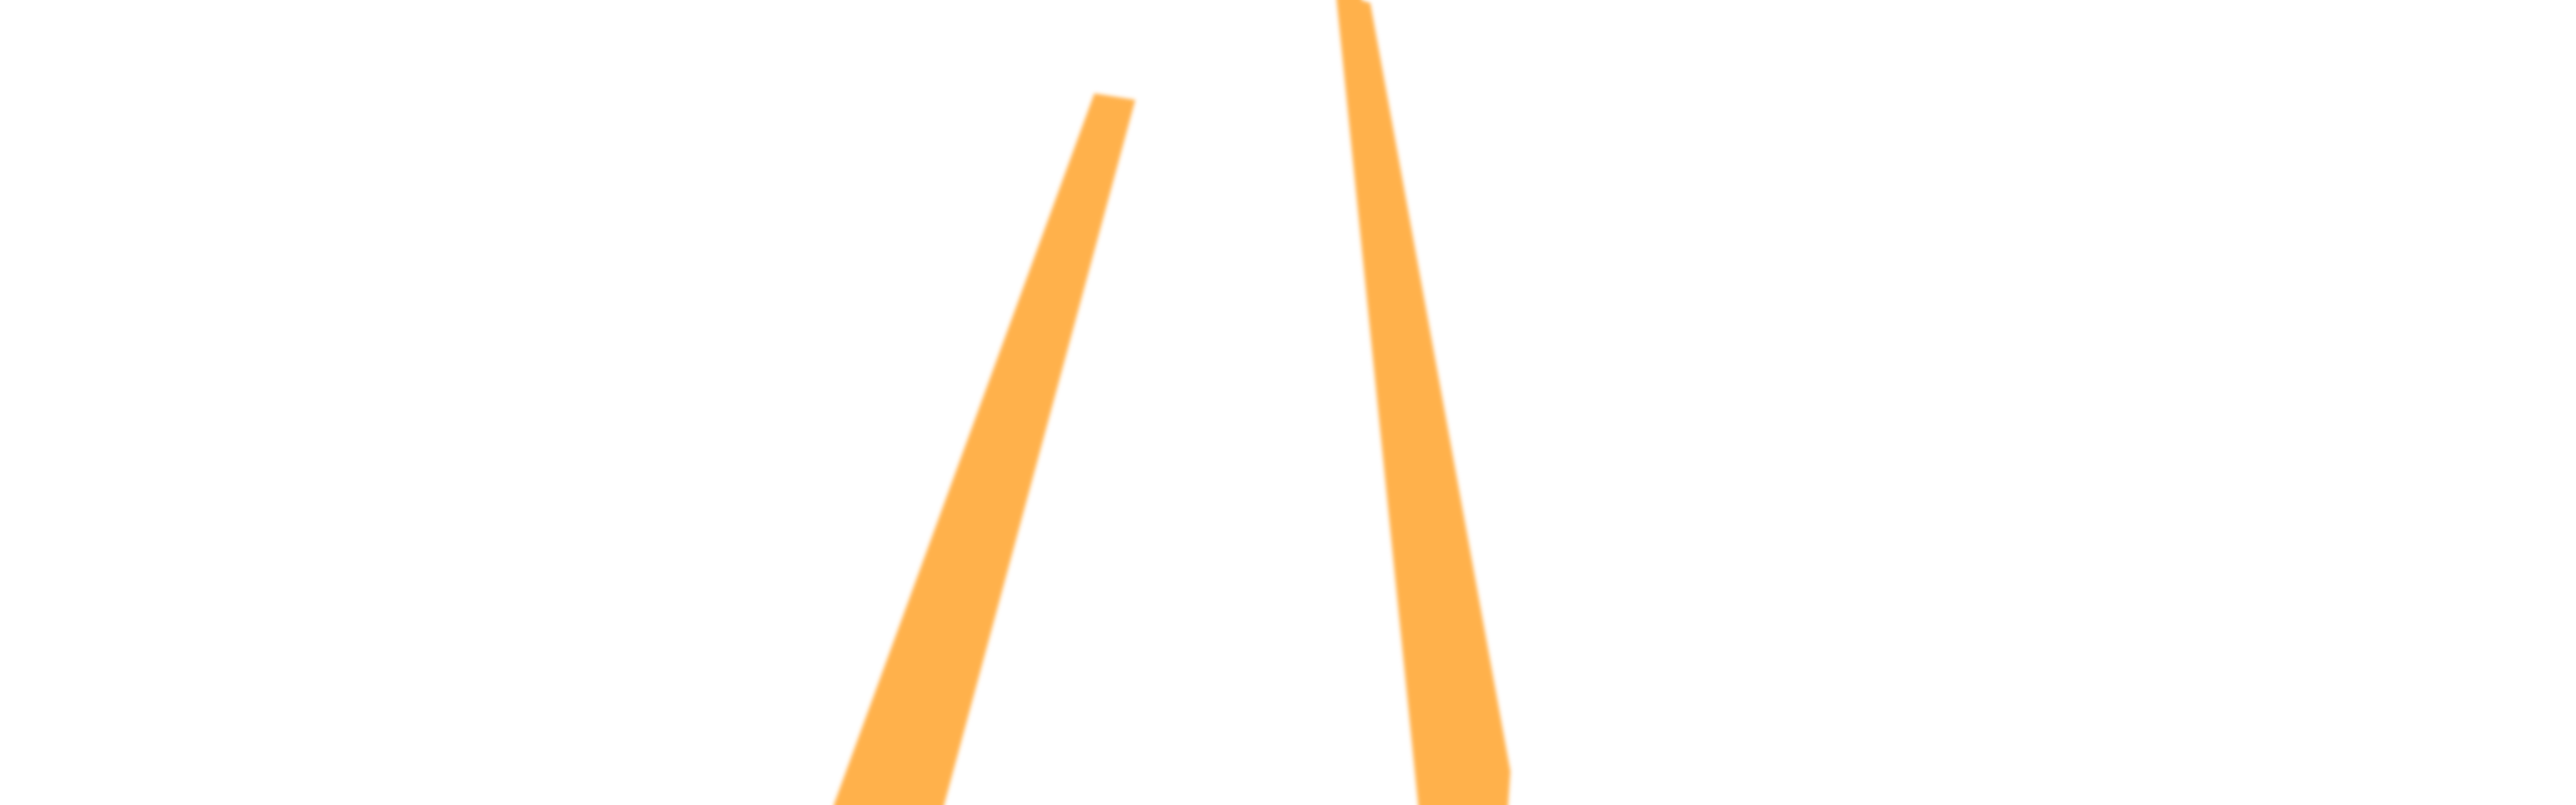
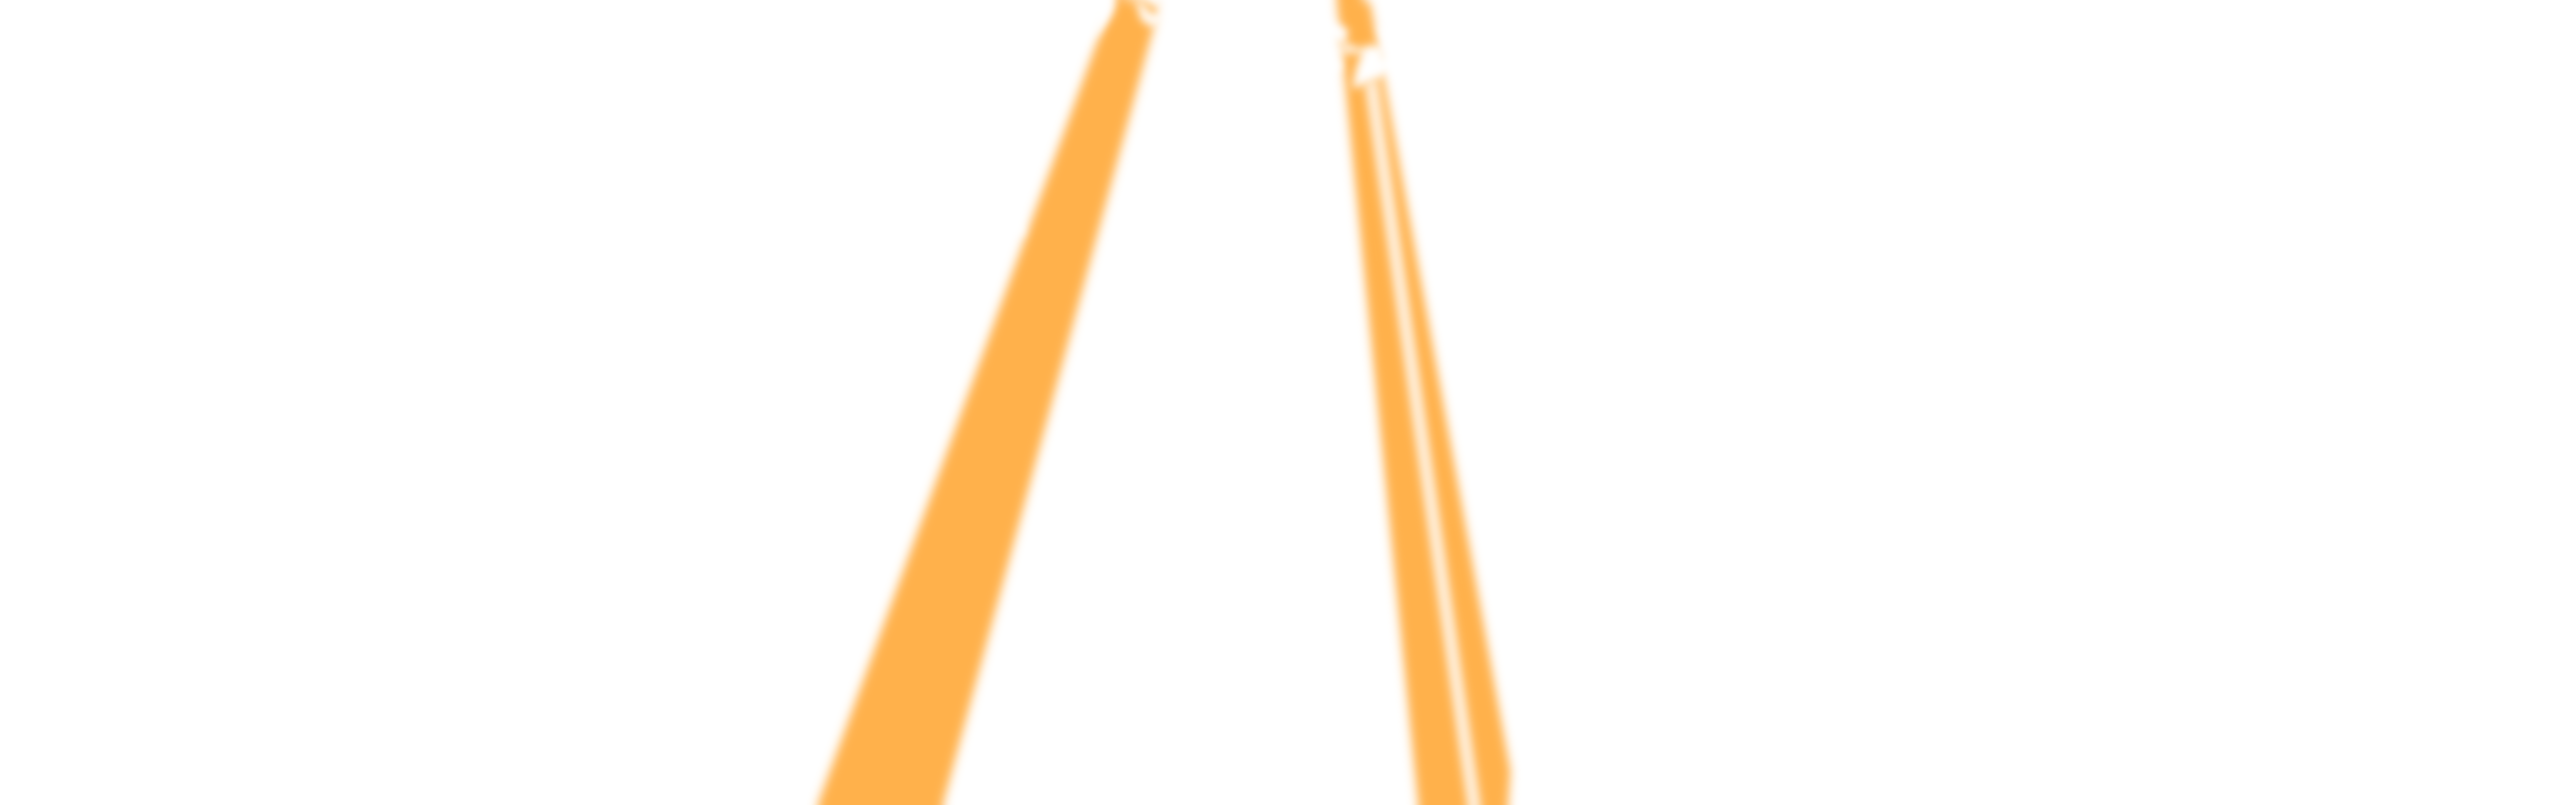
Sunbeam styling and sticky fix 2
Html Overflow:hidden breaks all sticky, including navbar. Removed overflow in preparation for testing which element is too big

Changed region(s): [[0.5, 0.0, 0.5938, 1.0], [0.3125, 0.0, 0.4688, 1.0]]

diff --git a/index.html b/index.html
@@ -411,7 +411,11 @@
                 </div>
                 <div class="col-sm-7 al-column px-4 animateIn fadeInRight">
                     <h1>Let's Keep in <span>Contact</span></h1>
-                    <iframe src="https://docs.google.com/forms/d/e/1FAIpQLSfEFGSn1mLxu_41qyNucgQhS8rhJ_FvybtoQCOtnai48Rr-zA/viewform?embedded=true" frameborder="0" marginheight="0" marginwidth="0">Loading…</iframe>
+                    <iframe
+                        src="https://docs.google.com/forms/d/e/1FAIpQLSfEFGSn1mLxu_41qyNucgQhS8rhJ_FvybtoQCOtnai48Rr-zA/viewform?embedded=true" 
+                        frameborder="0" marginheight="0" marginwidth="0">
+                        Loading…
+                    </iframe>
                 </div>
             </div>
         </div>

diff --git a/index.css b/index.css
@@ -29,11 +29,13 @@
     animation-timing-function: cubic-bezier(0.23, 1, 0.32, 1.2);
 }
 html,body{
-    overflow-x: hidden;
+    background: (var(--off-white));
+    /* overflow-x: clip; */
 }
 body{
     margin:0;
     overflow-y: auto;
+    overflow-x: hidden;
     width: 100%;
     height: 100%;
     padding: 0%;
@@ -327,6 +329,7 @@ img{
     opacity: 10%;
     mix-blend-mode: screen;
     animation: glow 10s infinite;
+    background-color: #000;
 }
 #landing-watcher img:nth-of-type(1){
     animation-delay: 1s;

diff --git a/index.js b/index.js
@@ -66,5 +66,6 @@ const loopStopper = new IntersectionObserver((entries)=>{
 const loopAnimElem = document.querySelectorAll(".watcher");
 loopAnimElem.forEach((el)=>loopStopper.observe(el));
 
+//programattically set the height to accomodate resizing mobile address bar
 document.getElementById("landing").style.height=window.innerHeight+"px";
 document.getElementById("landing-watcher").style.height=window.innerHeight+"px";
